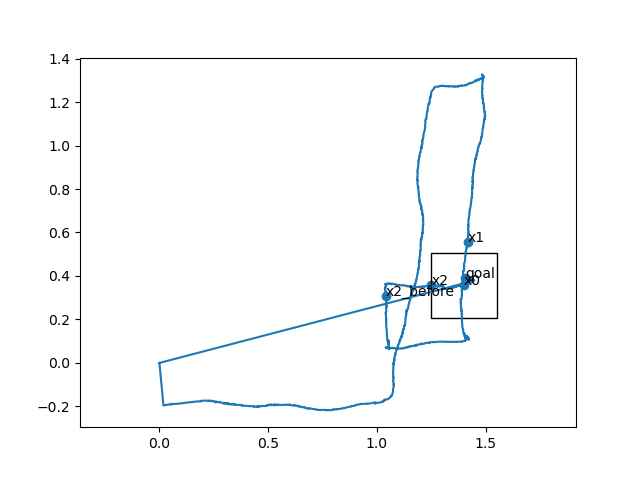
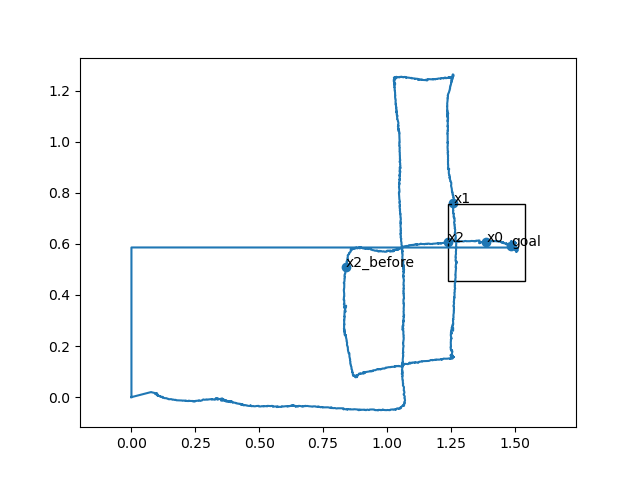
Update goal reach method, aller retour without obstacle working

diff --git a/drone.py b/drone.py
@@ -4,19 +4,21 @@ import time
 # Unit: meter
 DEFAULT_HEIGHT = 0.5 #1
 
-BOX_LIMIT_X = 1.5 #5
+BOX_LIMIT_X = 2 #5
 BOX_LIMIT_Y = 1.2 #3
 
 #START_POS_X = 0
 #START_POS_Y = 0
 GOAL_ZONE_X= 1
-START_ZONE_X=0.5
+START_ZONE_X=1
 TIME_EXPLORE=400
 TIME_EXPLORE2=400
 TIME_EXPLOREBOX=10
 #variables needed for obstacle avoidance
 VELOCITY = 0.2
 EPSYLON=0.0001
+
+VELOCITY_LANDING=0.1
 
 class Drone():
     def __init__(self, mc, start_x, start_y, x_offset=0.25, verbose=True):
@@ -150,15 +152,20 @@ class Drone():
 
         #Temporaire: condition d'arret si la limite de l'arene en x 
         if self.est_x > self.boxborder_front:
-            print("limite box atteinte en x")
-            self.mc.land()
+            print("Pas de plateforme, limite box atteinte en x")
             time.sleep(1)
+            self.goal_x=self.est_x
+            self.goal_y=self.est_y
+            self.yaw_landing=self.est_yaw
+            if self.verbose is True:
+                print("yaw before landing", self.yaw_landing)
             self.case =self.state_zigzag["arrived"]
+            self.goal_reached()
         
         #Temporaire condition de retour basé sur le temps de vol
-        if(time.time()-self.start_time>TIME_EXPLORE):
-            print("stop due au timing")
-            self.goal_reached()
+        #if(time.time()-self.start_time>TIME_EXPLORE):
+        #    print("stop due au timing")
+        #    self.goal_reached()
             # print(" Exploration time exceeded")
             # self.yaw_landing=self.est_yaw
             # print("yaw during landing", self.yaw_landing)
@@ -222,13 +229,20 @@ class Drone():
 
         #Temporaire: condition d'arret si la limite de l'arene en x 
         if self.est_x < 0:
-            print("limite de la box atteinte au retour")
+            print("Pas de platforme, limite de la box atteinte au retour")
+            time.sleep(1)
+            self.goal_x=self.est_x
+            self.goal_y=self.est_y
+            self.yaw_landing=self.est_yaw
+            if self.verbose is True:
+                print("yaw before landing", self.yaw_landing)
+            self.case =self.state_zigzag["arrived"]
             self.goal_reached2()
         
         #Temporaire condition de retour basé sur le temps de vol
-        if(time.time()-self.start_time2>TIME_EXPLORE2):
-            print("arret au retour basé sur le timing")
-            self.goal_reached2()
+        #if(time.time()-self.start_time2>TIME_EXPLORE2):
+        #    print("arret au retour basé sur le timing")
+        #    self.goal_reached2()
 
     def zigzag_box(self):
         '''
@@ -263,11 +277,25 @@ class Drone():
 
         #Temporaire: condition d'arret si la limite de la box en x 
         if self.est_x < self.pos_x-self.zone_x:
-            print("Exploration box terminée sans succès")
+            print("Pas de platforme, exploration box terminée sans succès")
+            time.sleep(1)
+            self.goal_x=self.est_x
+            self.goal_y=self.est_y
+            self.yaw_landing=self.est_yaw
+            if self.verbose is True:
+                print("yaw before landing", self.yaw_landing)
+            self.case =self.state_zigzag["arrived"]
             self.goal_reached2()
         
         #Temporaire condition de retour basé sur le temps de vol
         if(time.time()-self.start_time2>TIME_EXPLOREBOX):
+            time.sleep(1)
+            self.goal_x=self.est_x
+            self.goal_y=self.est_y
+            self.yaw_landing=self.est_yaw
+            if self.verbose is True:
+                print("yaw before landing", self.yaw_landing)
+            self.case =self.state_zigzag["arrived"]
             self.goal_reached2()
             
 
@@ -397,37 +425,23 @@ class Drone():
 
     def goal_reached(self):
         #when goal reached needs to: 
-        #record goal position before landing
         #land
         #take off
         #update flag for using 2 estimation function
         #switch state_zigzag
 
-        self.yaw_landing=self.est_yaw
-        if self.verbose is True:print("yaw before landing", self.yaw_landing)
-        self.goal_x=self.est_x
-        self.goal_y=self.est_y
-        self.mc.land()
+        self.mc.land(velocity=VELOCITY_LANDING)
+        self.case = self.state_zigzag["arrived"]
         self.landed=1 #used to decide which position estimation function to use
-        time.sleep(1)
+        time.sleep(5)
         self.mc.take_off(DEFAULT_HEIGHT)
         self.clean_takeoff2()
-        #clean_takeoff(self.mc, [goal_x, goal_y, yaw_landing])
-        self.case =self.state_zigzag["arrived"] #to get out of zigzag
-        self.start_time2=time.time()
         
-
     def goal_reached2(self):
-            #when goal reached needs to: 
-            #record goal position before landing
-            #land
-            #take off
-            #update flag for using 2 estimation function
-            #switch state_zigzag
-
-            print("final goal reached")
-            self.mc.land()
-            self.case2 =self.state_zigzag["arrived"] #to get out of zigzag
+        print("final goal reached")
+        self.mc.land(velocity=VELOCITY_LANDING)
+        self.case2 = self.state_zigzag["arrived"]
+        self.landed=1 #used to decide which position estimation function to use
         
         
 

diff --git a/edge_detection.py b/edge_detection.py
@@ -135,8 +135,12 @@ def find_platform_center(logs, dronito):
             
         if dronito.est_x > dronito.boxborder_front - dronito.start_x:
             print("No center found, limite arene x reached, let's land for safety")
-            dronito.mc.land()
-            dronito.case = dronito.state_zigzag["arrived"]
+            dronito.goal_x=dronito.est_x
+            dronito.goal_y=dronito.est_y
+            dronito.yaw_landing=dronito.est_yaw
+            if dronito.verbose is True:
+                print("yaw before landing", dronito.yaw_landing)
+            dronito.edge=False
             return
     
     #before working dronito.mc.forward(0.05)
@@ -150,10 +154,6 @@ def find_platform_center(logs, dronito):
     if dronito.verbose is True:
         print("yaw before landing", dronito.yaw_landing)
     
-    #dronito.mc.down(0.35)
-    #dronito.mc.stop()
-    dronito.mc.land(velocity=0.1)
-    dronito.case = dronito.state_zigzag["arrived"]
     dronito.edge=False
 
     dX=0.15
@@ -274,21 +274,25 @@ def find_platform_center2(logs, dronito):
             
         if dronito.est_x > dronito.boxborder_front - dronito.start_x:
             print("No center found, limite arene x reached, let's land for safety")
-            dronito.mc.land()
-            dronito.case2 = dronito.state_zigzag["arrived"]
+            dronito.goal_x=dronito.est_x
+            dronito.goal_y=dronito.est_y
+            dronito.yaw_landing=dronito.est_yaw
+            if dronito.verbose is True:
+                print("yaw before landing", dronito.yaw_landing)
+            dronito.edge=False
             return
     
     #before working dronito.mc.forward(0.05)
     dronito.mc.back(0.1, velocity=0.1)
    
+    time.sleep(1)
+
     dronito.goal_x=dronito.est_x
     dronito.goal_y=dronito.est_y
-
-    time.sleep(1)
-    #dronito.mc.down(0.35)
-    #dronito.mc.stop()
-    dronito.mc.land(velocity=0.1)
-    dronito.case2 = dronito.state_zigzag["arrived"]
+    dronito.yaw_landing=dronito.est_yaw
+    if dronito.verbose is True:
+        print("yaw before landing", dronito.yaw_landing)
+    
     dronito.edge=False
 
     dX=0.15

diff --git a/motion_flying.py b/motion_flying.py
@@ -248,20 +248,21 @@ if __name__ == '__main__':
                                 #dronito.edge = False ## to remove
                                 if dronito.edge == True:
                                     edge_detection.find_platform_center(logs,dronito)
-                                    dronito.landed=1
-                                    time.sleep(1)
-                                    dronito.mc.take_off(DEFAULT_HEIGHT)
-                                    dronito.clean_takeoff2()
+                                    dronito.goal_reached()
                             dronito.zigzag()
                         else:
                             # print("here!!!")
                             #break
                             if not dronito.is_arrived2():
                                 dronito.zigzag_back()
+                                
                                 if not dronito.is_starting2():
                                     [dronito.edge,dronito.x_edge,dronito.y_edge] = edge_detection.is_edge(logs)
                                     if dronito.edge == True:
                                         edge_detection.find_platform_center2(logs,dronito)
+                                        dronito.goal_reached2()
+                            else:
+                                break
  
                         time.sleep(freq_main)
                     else:

diff --git a/logs_plotter.py b/logs_plotter.py
@@ -2,7 +2,7 @@ import matplotlib.pyplot as plt
 import pandas as pd
 
 # import data in pandas dataframe (change the file name to your local file)
-data = pd.read_csv('logs/2022_05_28_13_24_33.csv', header = None)
+data = pd.read_csv('logs/2022_05_28_16_25_40.csv', header = None)
 print(data)
 
 # remove all-zeros rows
